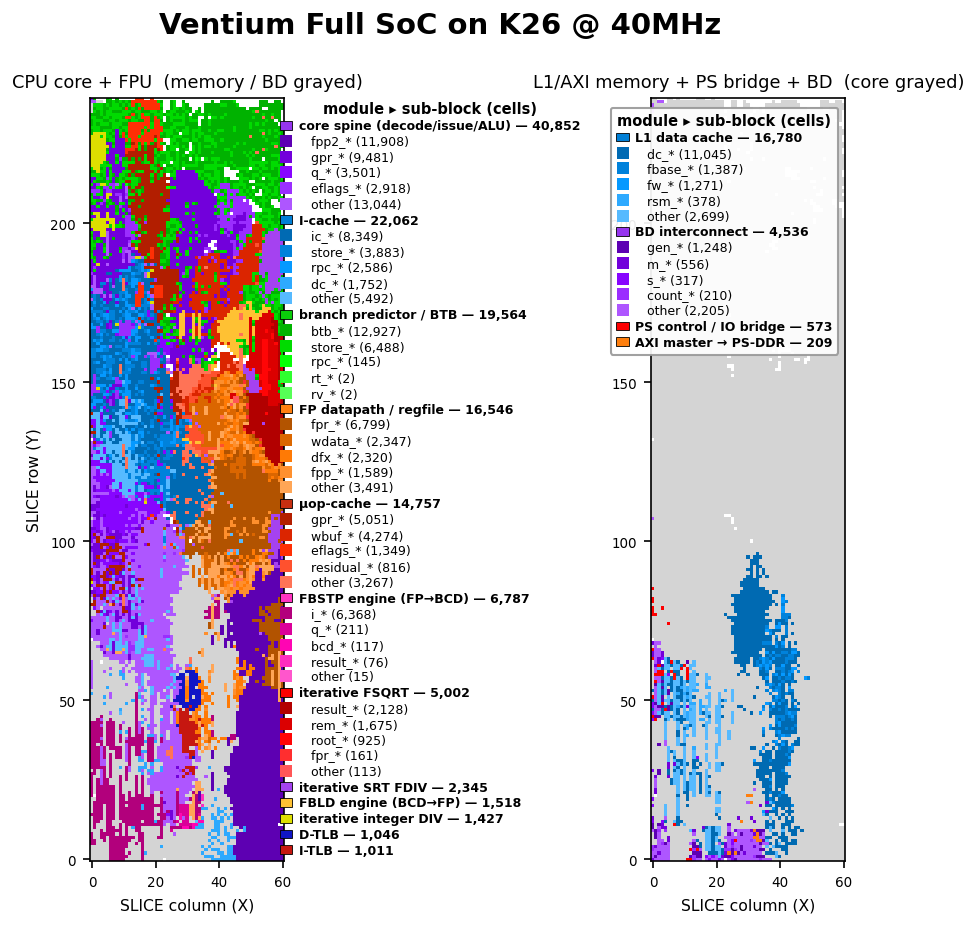
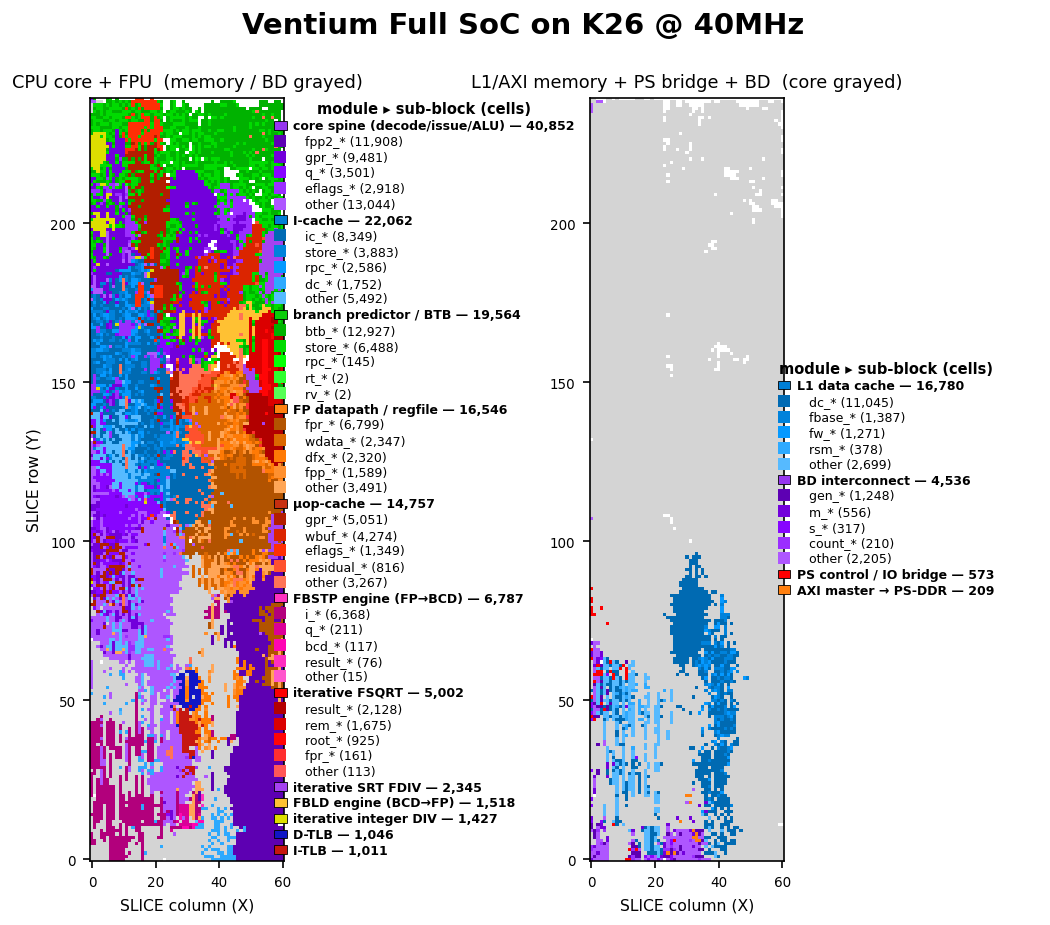
docs: relax the split device view — slim side legends, no inset overlap
The inset legend clipped the right die's BD/interconnect cells; both legends
return to their own (slim) columns. 1050x925 — the compact middle ground.

diff --git a/fpga/scripts/render_device_view_split.py b/fpga/scripts/render_device_view_split.py
@@ -149,16 +149,14 @@ def build_panel(focus):
         img[y - miny, x - minx] = layer_colors[cnt.most_common(1)[0][0]]
     return img, (minx, maxx, miny, maxy), legend_blocks
 
-# ---- compact 2-panel figure: [die][legend] [die][legend] ----------------------
+# ---- compact 2-panel figure: [die][legend][die][legend] -----------------------
 # The die is ~4:1 tall (H~243 x W~60 sites); the figure width is sized to the
-# CONTENT (two ~1.6in dies + two ~1.8in single-column legends), not to a wide
-# canvas — that's what kills the blank space.
-# Panel 1 (dense die) gets a side legend column; panel 2's die is mostly gray
-# at the top (the core is grayed out), so its legend sits INSIDE the axes over
-# that gray region — the whole fourth column disappears.
-fig = plt.figure(figsize=(5.9, 6.4))
-gs = fig.add_gridspec(1, 3, width_ratios=[1.0, 1.18, 1.05], wspace=0.03,
-                      left=0.075, right=0.995, top=0.875, bottom=0.08)
+# CONTENT (two ~1.6in dies + two slim single-column legends) — compact without
+# overlap: an inset legend over the right die clipped its BD/interconnect cells,
+# so both legends keep their own (slim) columns.
+fig = plt.figure(figsize=(6.9, 6.4))
+gs = fig.add_gridspec(1, 4, width_ratios=[1.0, 1.14, 1.0, 1.02], wspace=0.03,
+                      left=0.066, right=0.998, top=0.875, bottom=0.08)
 
 def legend_items(legend_blocks):
     handles, labels = [], []
@@ -181,7 +179,7 @@ def style_legend(lg, handles):
 axes = []
 for p, (focus, subtitle) in enumerate(PANELS):
     img, (minx, maxx, miny, maxy), legend_blocks = build_panel(focus)
-    ax = fig.add_subplot(gs[0, 0 if p == 0 else 2])
+    ax = fig.add_subplot(gs[0, 2 * p])
     axes.append(ax)
     ax.imshow(img, origin="lower", interpolation="nearest", aspect="equal",
               extent=[minx - 0.5, maxx + 0.5, miny - 0.5, maxy + 0.5])
@@ -191,18 +189,11 @@ for p, (focus, subtitle) in enumerate(PANELS):
         ax.set_ylabel("SLICE row (Y)", fontsize=7.5)
     ax.tick_params(labelsize=6.5)
     handles, labels = legend_items(legend_blocks)
-    if p == 0:
-        lax = fig.add_subplot(gs[0, 1]); lax.axis("off")
-        lg = lax.legend(handles, labels, loc="center left", bbox_to_anchor=(-0.16, 0.5),
-                        fontsize=6.0, framealpha=0.0, handlelength=1.0,
-                        labelspacing=0.22, borderpad=0.1, handletextpad=0.5,
-                        title="module ▸ sub-block (cells)")
-    else:
-        # inset over the grayed-core region (upper half of the right die)
-        lg = ax.legend(handles, labels, loc="upper right", bbox_to_anchor=(0.995, 0.995),
-                       fontsize=6.0, framealpha=0.92, edgecolor="#999999",
-                       handlelength=1.0, labelspacing=0.22, borderpad=0.45,
-                       handletextpad=0.5, title="module ▸ sub-block (cells)")
+    lax = fig.add_subplot(gs[0, 2 * p + 1]); lax.axis("off")
+    lg = lax.legend(handles, labels, loc="center left", bbox_to_anchor=(-0.16, 0.5),
+                    fontsize=6.0, framealpha=0.0, handlelength=1.0,
+                    labelspacing=0.22, borderpad=0.1, handletextpad=0.5,
+                    title="module ▸ sub-block (cells)")
     style_legend(lg, handles)
 
 fig.suptitle(suptitle, fontsize=14, fontweight="bold", y=0.965)